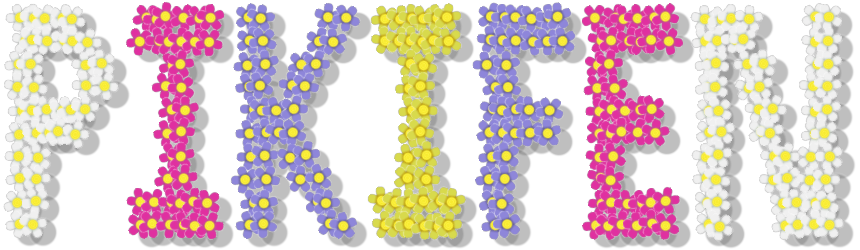
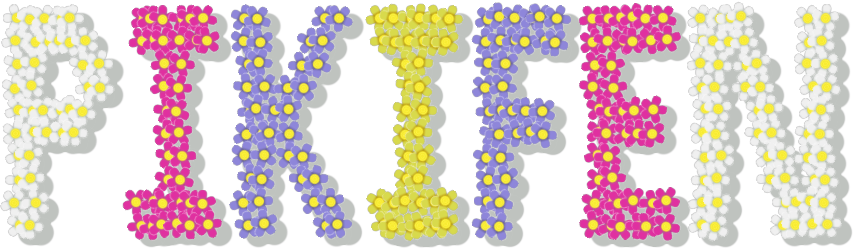
Title screen wordmark Pikmin shadows are now drawn on a buffer.
- This allows all of the shaded surface to be the same color, instead of areas where the shadow bitmaps overlap having a darker section.
- Also tinted the shadows slightly green to be a bit more natural.
- Added logic to easily export the title screen Pikmin into a transparent PNG of just the wordmark.
- Also, renamed "logo" to "wordmark" in the context of the title screen for accuracy.

diff --git a/source/source/game_state/title_screen.cpp b/source/source/game_state/title_screen.cpp
@@ -734,33 +734,75 @@ void MainMenu::load() {
  * @brief Draws the title screen.
  */
 void TitleScreen::doDrawing() {
-    al_clear_to_color(COLOR_BLACK);
-    
-    if(game.debug.showDearImGuiDemo) return;
-    
-    drawBitmap(
-        bmpMenuBg, Point(game.winW * 0.5, game.winH * 0.5),
-        Point(game.winW, game.winH)
-    );
-    
-    //Draw the logo Pikmin.
-    Point pikSize = logoPikminSize;
+    Point pikSize = wordmarkPikminSize;
     pikSize.x *= game.winW / 100.0f;
     pikSize.y *= game.winH / 100.0f;
     
-    forIdx(p, logoPikmin) {
-        LogoPikmin* pik = &logoPikmin[p];
-        drawBitmapInBox(
-            game.sysContent.bmpShadow,
-            pik->center + pikSize * 0.30f, pikSize * 1.2f,
-            true, 0.0f, COLOR_TRANSPARENT_WHITE
+    //To export the wordmark into its own bitmap, set this to true.
+    //One good trick is to set it to true if game.timePassed > 10.
+    const bool justWordmark = false;
+    
+    ALLEGRO_BITMAP* bmpJustWordmark = nullptr;
+    if(justWordmark) {
+        bmpJustWordmark = al_create_bitmap(game.winW, game.winH);
+        al_set_target_bitmap(bmpJustWordmark);
+    }
+    
+    //Draw the background fill color.
+    al_clear_to_color(justWordmark ? COLOR_EMPTY : COLOR_BLACK);
+    
+    if(game.debug.showDearImGuiDemo) return;
+    
+    //Fill the wordmark Pikmin's shadow buffer.
+    ALLEGRO_BITMAP* oldTargetBmp = al_get_target_bitmap();
+    al_set_target_bitmap(bmpWordmarkShadows);
+    al_clear_to_color(COLOR_EMPTY);
+    int oldOp = 0, oldSource = 0, oldDest = 0;
+    al_get_blender(&oldOp, &oldSource, &oldDest);
+    al_set_blender(ALLEGRO_ADD, ALLEGRO_ALPHA, ALLEGRO_ONE); {
+        forIdx(p, wordmarkPikmin) {
+            WordmarkPikmin* pik = &wordmarkPikmin[p];
+            drawBitmapInBox(
+                game.sysContent.bmpShadow,
+                pik->center + pikSize * 0.30f, pikSize * 1.2f, true
+            );
+        }
+    } al_set_blender(oldOp, oldSource, oldDest);
+    al_set_target_bitmap(oldTargetBmp);
+    
+    //Draw the background.
+    if(!justWordmark) {
+        drawBitmap(
+            bmpMenuBg, Point(game.winW * 0.5, game.winH * 0.5),
+            Point(game.winW, game.winH)
         );
     }
-    forIdx(p, logoPikmin) {
-        LogoPikmin* pik = &logoPikmin[p];
+    
+    //Draw the wordmark Pikmin shadows.
+    al_use_shader(game.shaders.getShader(SHADER_TYPE_COLORIZER)); {
+        //Color it just a bit green so it's more natural.
+        ALLEGRO_COLOR color = al_map_rgba(0, 255, 0, 32);
+        al_set_shader_float_vector(
+            "colorizer_color", 4, (float*) &color, 1
+        );
+        drawBitmap(
+            bmpWordmarkShadows, Point(game.winW / 2.0f, game.winH / 2.0f),
+            Point(game.winW, game.winH), 0.0f, COLOR_TRANSPARENT_WHITE
+        );
+    } al_use_shader(nullptr);
+    
+    //Draw the wordmark Pikmin proper.
+    forIdx(p, wordmarkPikmin) {
+        WordmarkPikmin* pik = &wordmarkPikmin[p];
         drawBitmapInBox(
             pik->top, pik->center, pikSize, true, pik->angle
         );
+    }
+    
+    if(justWordmark) {
+        //Do what you want with bmpJustWordmark, like using al_save_bitmap().
+        al_destroy_bitmap(bmpJustWordmark);
+        return;
     }
     
     drawText(
@@ -799,10 +841,10 @@ void TitleScreen::doDrawing() {
 void TitleScreen::doLogic() {
     if(game.debug.showDearImGuiDemo) return;
     
-    //Animate the logo Pikmin.
+    //Animate the wordmark Pikmin.
     int largestWindowDim = std::max(game.winW, game.winH);
-    forIdx(p, logoPikmin) {
-        LogoPikmin* pik = &logoPikmin[p];
+    forIdx(p, wordmarkPikmin) {
+        WordmarkPikmin* pik = &wordmarkPikmin[p];
         
         if(!pik->reachedDestination) {
             float a = getAngle(pik->center, pik->destination);
@@ -810,7 +852,7 @@ void TitleScreen::doLogic() {
                 std::min(
                     pik->speed * largestWindowDim * (float) game.deltaT,
                     Distance(pik->center, pik->destination).toFloat() *
-                    logoPikminSpeedSmoothness
+                    wordmarkPikminSpeedSmoothness
                 );
             pik->center.x += cos(a) * speed;
             pik->center.y += sin(a) * speed;
@@ -826,7 +868,7 @@ void TitleScreen::doLogic() {
             pik->swayVar += pik->swaySpeed * game.deltaT;
             pik->center.x =
                 pik->destination.x +
-                sin(pik->swayVar) * logoPikminSwayAmount;
+                sin(pik->swayVar) * wordmarkPikminSwayAmount;
         }
     }
     
@@ -890,6 +932,7 @@ void TitleScreen::load() {
     );
     
     //Misc. initializations.
+    bmpWordmarkShadows = al_create_bitmap(game.winW, game.winH);
     mainMenu.pageToLoad = pageToLoad;
     mainMenu.load();
     
@@ -900,21 +943,21 @@ void TitleScreen::load() {
     bmpMenuBg =
         game.content.bitmaps.list.get(game.sysContentNames.bmpTitleScreenBg);
         
-    //Logo pikmin.
-    DataNode* logoNode = settingsFile->getChildByName("logo");
-    ReaderSetter lRS(logoNode);
+    //Wordmark pikmin.
+    DataNode* wordmarkNode = settingsFile->getChildByName("logo");
+    ReaderSetter lRS(wordmarkNode);
     
     DataNode* pikTypesNode =
-        logoNode->getChildByName("pikmin_types");
+        wordmarkNode->getChildByName("pikmin_types");
     for(size_t t = 0; t < pikTypesNode->getNrOfChildren(); t++) {
         DataNode* typeNode = pikTypesNode->getChild(t);
         if(typeNode->name.empty()) continue;
-        logoTypeBitmaps[typeNode->name[0]] =
+        wordmarkTypeBitmaps[typeNode->name[0]] =
             game.content.bitmaps.list.get(typeNode->value, typeNode);
     }
     
     DataNode* mapNode =
-        logoNode->getChildByName("map");
+        wordmarkNode->getChildByName("map");
     size_t mapTotalRows = mapNode->getNrOfChildren();
     size_t mapTotalCols = 0;
     for(size_t r = 0; r < mapTotalRows; r++) {
@@ -922,15 +965,15 @@ void TitleScreen::load() {
             std::max(mapTotalCols, mapNode->getChild(r)->name.size());
     }
     
-    lRS.set("min_window_limit", logoMinWindowLimit);
-    lRS.set("max_window_limit", logoMaxWindowLimit);
-    lRS.set("pikmin_max_speed", logoPikminMaxSpeed);
-    lRS.set("pikmin_min_speed", logoPikminMinSpeed);
-    lRS.set("pikmin_speed_smoothness", logoPikminSpeedSmoothness);
-    lRS.set("pikmin_sway_amount", logoPikminSwayAmount);
-    lRS.set("pikmin_sway_max_speed", logoPikminSwayMaxSpeed);
-    lRS.set("pikmin_sway_min_speed", logoPikminSwayMinSpeed);
-    lRS.set("pikmin_size", logoPikminSize);
+    lRS.set("min_window_limit", wordmarkMinWindowLimit);
+    lRS.set("max_window_limit", wordmarkMaxWindowLimit);
+    lRS.set("pikmin_max_speed", wordmarkPikminMaxSpeed);
+    lRS.set("pikmin_min_speed", wordmarkPikminMinSpeed);
+    lRS.set("pikmin_speed_smoothness", wordmarkPikminSpeedSmoothness);
+    lRS.set("pikmin_sway_amount", wordmarkPikminSwayAmount);
+    lRS.set("pikmin_sway_max_speed", wordmarkPikminSwayMaxSpeed);
+    lRS.set("pikmin_sway_min_speed", wordmarkPikminSwayMinSpeed);
+    lRS.set("pikmin_size", wordmarkPikminSize);
     
     bool mapOk = true;
     
@@ -939,7 +982,7 @@ void TitleScreen::load() {
         
         forIdx(c, row) {
             if(row[c] == '.') continue;
-            if(!isInMap(logoTypeBitmaps, row[c])) {
+            if(!isInMap(wordmarkTypeBitmaps, row[c])) {
                 mapOk = false;
                 game.errors.report(
                     "Title screen Pikmin logo map has an unknown character \"" +
@@ -949,16 +992,16 @@ void TitleScreen::load() {
                 break;
             }
             
-            LogoPikmin pik;
+            WordmarkPikmin pik;
             
-            Point minPos = logoMinWindowLimit;
+            Point minPos = wordmarkMinWindowLimit;
             minPos.x *= game.winW / 100.0f;
             minPos.y *= game.winH / 100.0f;
-            Point maxPos = logoMaxWindowLimit;
+            Point maxPos = wordmarkMaxWindowLimit;
             maxPos.x *= game.winW / 100.0f;
             maxPos.y *= game.winH / 100.0f;
             
-            pik.top = logoTypeBitmaps[row[c]];
+            pik.top = wordmarkTypeBitmaps[row[c]];
             pik.destination =
                 Point(
                     minPos.x +
@@ -980,12 +1023,12 @@ void TitleScreen::load() {
                 );
                 
             pik.angle = game.rng.f(0, TAU);
-            pik.speed = game.rng.f(logoPikminMinSpeed, logoPikminMaxSpeed);
+            pik.speed = game.rng.f(wordmarkPikminMinSpeed, wordmarkPikminMaxSpeed);
             pik.swaySpeed =
-                game.rng.f(logoPikminSwayMinSpeed, logoPikminSwayMaxSpeed);
+                game.rng.f(wordmarkPikminSwayMinSpeed, wordmarkPikminSwayMaxSpeed);
             pik.swayVar = 0;
             pik.reachedDestination = false;
-            logoPikmin.push_back(pik);
+            wordmarkPikmin.push_back(pik);
         }
         
         if(!mapOk) break;
@@ -1008,16 +1051,18 @@ void TitleScreen::unload() {
     //Resources.
     game.content.bitmaps.list.free(bmpMenuBg);
     bmpMenuBg = nullptr;
-    for(const auto& t : logoTypeBitmaps) {
+    for(const auto& t : wordmarkTypeBitmaps) {
         game.content.bitmaps.list.free(t.second);
     }
-    logoTypeBitmaps.clear();
+    wordmarkTypeBitmaps.clear();
     
     //Menu items.
     mainMenu.unload();
     
     //Misc.
-    logoPikmin.clear();
+    wordmarkPikmin.clear();
+    al_destroy_bitmap(bmpWordmarkShadows);
+    bmpWordmarkShadows = nullptr;
     
     //Game content.
     game.content.unloadAll(

diff --git a/source/source/game_state/title_screen.hpp b/source/source/game_state/title_screen.hpp
@@ -110,9 +110,9 @@ private:
     //--- Private misc. declarations ---
     
     /**
-     * @brief Represents a Pikmin in the logo.
+     * @brief Represents a Pikmin in the game's wordmark.
      */
-    struct LogoPikmin {
+    struct WordmarkPikmin {
     
         //--- Public members ---
         
@@ -151,39 +151,42 @@ private:
     //Bitmap of the menu background.
     ALLEGRO_BITMAP* bmpMenuBg = nullptr;
     
-    //List of Pikmin that make up the logo.
-    vector<LogoPikmin> logoPikmin;
+    //Buffer where the wordmark Pikmin shadows are drawn.
+    ALLEGRO_BITMAP* bmpWordmarkShadows = nullptr;
     
-    //Top-left coordinates of the logo, in window percentage.
-    Point logoMinWindowLimit = Point(10.0f);
+    //List of Pikmin that make up the wordmark.
+    vector<WordmarkPikmin> wordmarkPikmin;
     
-    //Bottom-right coordinates of the logo, in window percentage.
-    Point logoMaxWindowLimit = Point(90.0f, 50.0f);
+    //Top-left coordinates of the wordmark, in window percentage.
+    Point wordmarkMinWindowLimit = Point(10.0f);
     
-    //Maximum speed a logo Pikmin can move at, in window width or height ratio
+    //Bottom-right coordinates of the wordmark, in window percentage.
+    Point wordmarkMaxWindowLimit = Point(90.0f, 50.0f);
+    
+    //Maximum speed a wordmark Pikmin can move at, in window width or height ratio
     //per second (the largest of width or height).
-    float logoPikminMaxSpeed = 800.0f;
+    float wordmarkPikminMaxSpeed = 800.0f;
     
-    //Minimum speed a logo Pikmin can move at, in window width or height ratio
+    //Minimum speed a wordmark Pikmin can move at, in window width or height ratio
     //per second (the largest of width or height).
-    float logoPikminMinSpeed = 600.0f;
+    float wordmarkPikminMinSpeed = 600.0f;
     
-    //How much to smooth a logo Pikmin's speed by.
-    float logoPikminSpeedSmoothness = 0.08f;
+    //How much to smooth a wordmark Pikmin's speed by.
+    float wordmarkPikminSpeedSmoothness = 0.08f;
     
-    //How much to sway a logo Pikmin by.
-    float logoPikminSwayAmount = 3.0f;
+    //How much to sway a wordmark Pikmin by.
+    float wordmarkPikminSwayAmount = 3.0f;
     
-    //Maximum speed at which a logo Pikmin can sway.
-    float logoPikminSwayMaxSpeed = 5.5f;
+    //Maximum speed at which a wordmark Pikmin can sway.
+    float wordmarkPikminSwayMaxSpeed = 5.5f;
     
-    //Minimum speed at which a logo Pikmin can sway.
-    float logoPikminSwayMinSpeed = 2.5f;
+    //Minimum speed at which a wordmark Pikmin can sway.
+    float wordmarkPikminSwayMinSpeed = 2.5f;
     
-    //Width and height of a logo Pikmin.
-    Point logoPikminSize = Point(3.5f);
+    //Width and height of a wordmark Pikmin.
+    Point wordmarkPikminSize = Point(3.5f);
     
     //Map of what characters represent what Pikmin top bitmaps.
-    map<unsigned char, ALLEGRO_BITMAP*> logoTypeBitmaps;
+    map<unsigned char, ALLEGRO_BITMAP*> wordmarkTypeBitmaps;
     
 };